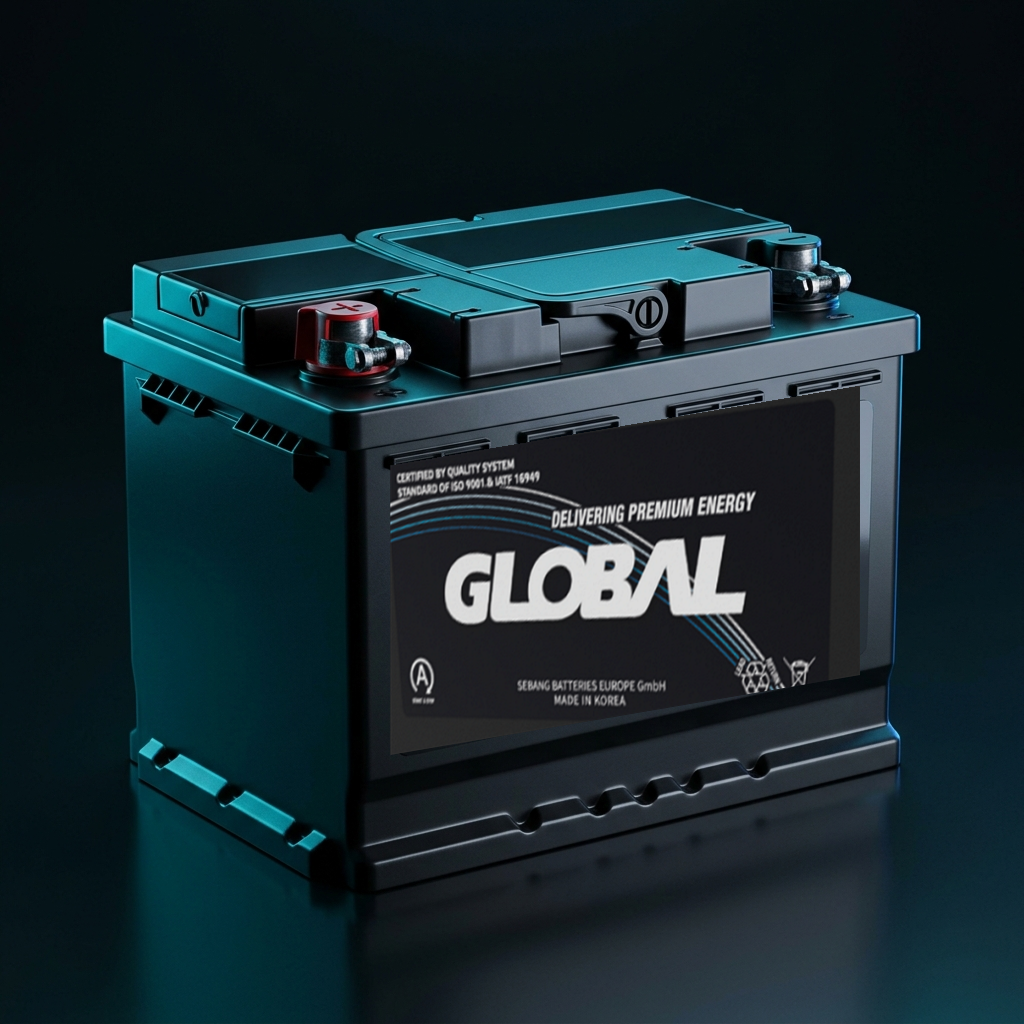
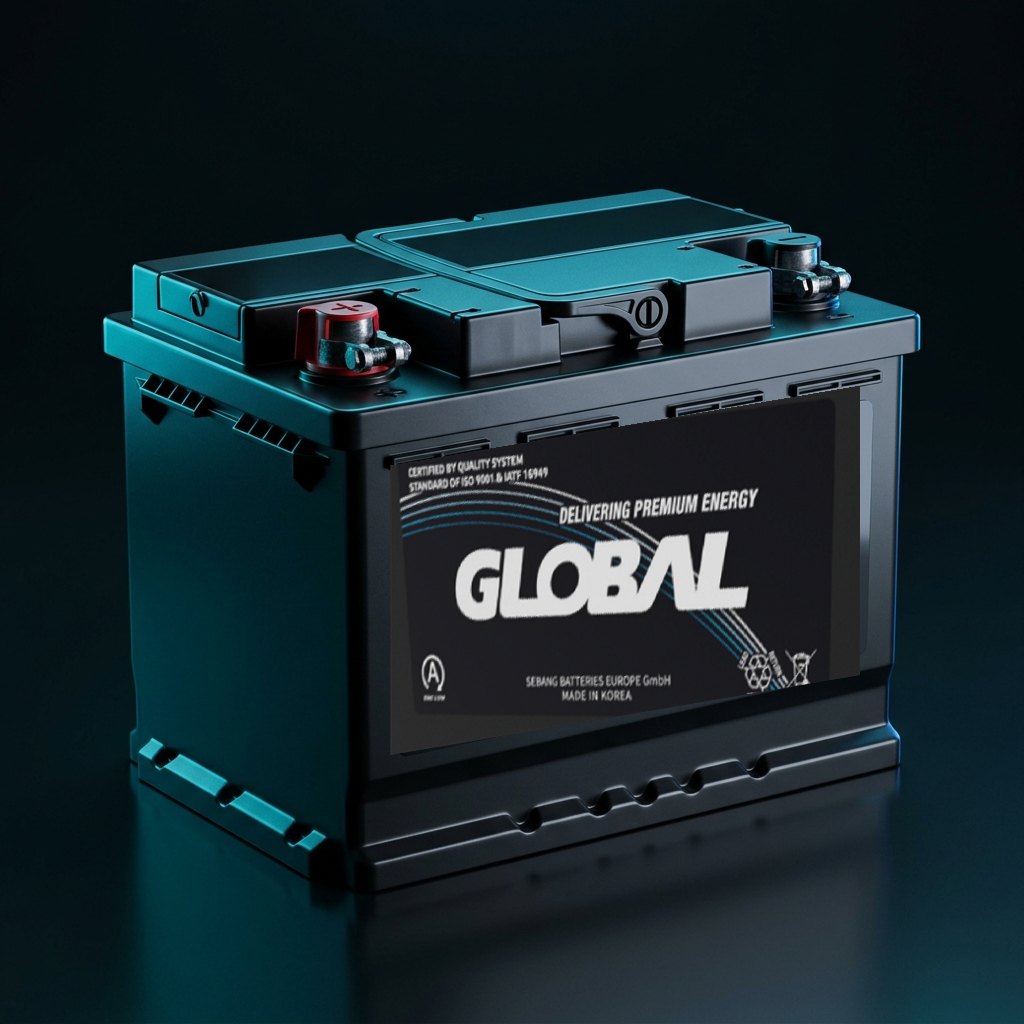
fix: unwarp global label using true perspective to fix crooked text

Changed region(s): [[0.375, 0.4375, 0.8125, 0.6875], [0.5, 0.6562, 0.6562, 0.6875], [0.4062, 0.625, 0.4375, 0.6875]]

diff --git a/index.html b/index.html
@@ -235,7 +235,7 @@
                   <!-- GLOBAL -->
                   <a href="brand-global.html" class="global-brand-card" style="text-decoration:none;">
                       <div class="gb-product-shot">
-                          <img src="assets/battery_global_final.png?v=6" alt="Global Battery" class="battery-base" style="width: 100%; height: auto;">
+                          <img src="assets/battery_global_final.png?v=7" alt="Global Battery" class="battery-base" style="width: 100%; height: auto;">
                       </div>
                       <div class="gb-info">
                           <h3>GLOBAL</h3>

diff --git a/brand-global.html b/brand-global.html
@@ -79,7 +79,7 @@
             <a href="index.html#brands" class="back-link" style="justify-content: center; margin-bottom: 2rem;"><i class="fa-solid fa-arrow-left"></i> Markalara Dön</a>
             
             <!-- Yeni Geniş Görsel Alanı -->
-            <img src="assets/battery_global_final.png?v=6" alt="GLOBAL Battery" class="brand-banner-img">
+            <img src="assets/battery_global_final.png?v=7" alt="GLOBAL Battery" class="brand-banner-img">
             
             <div class="brand-content">
                 <h1>GLOBAL</h1>
